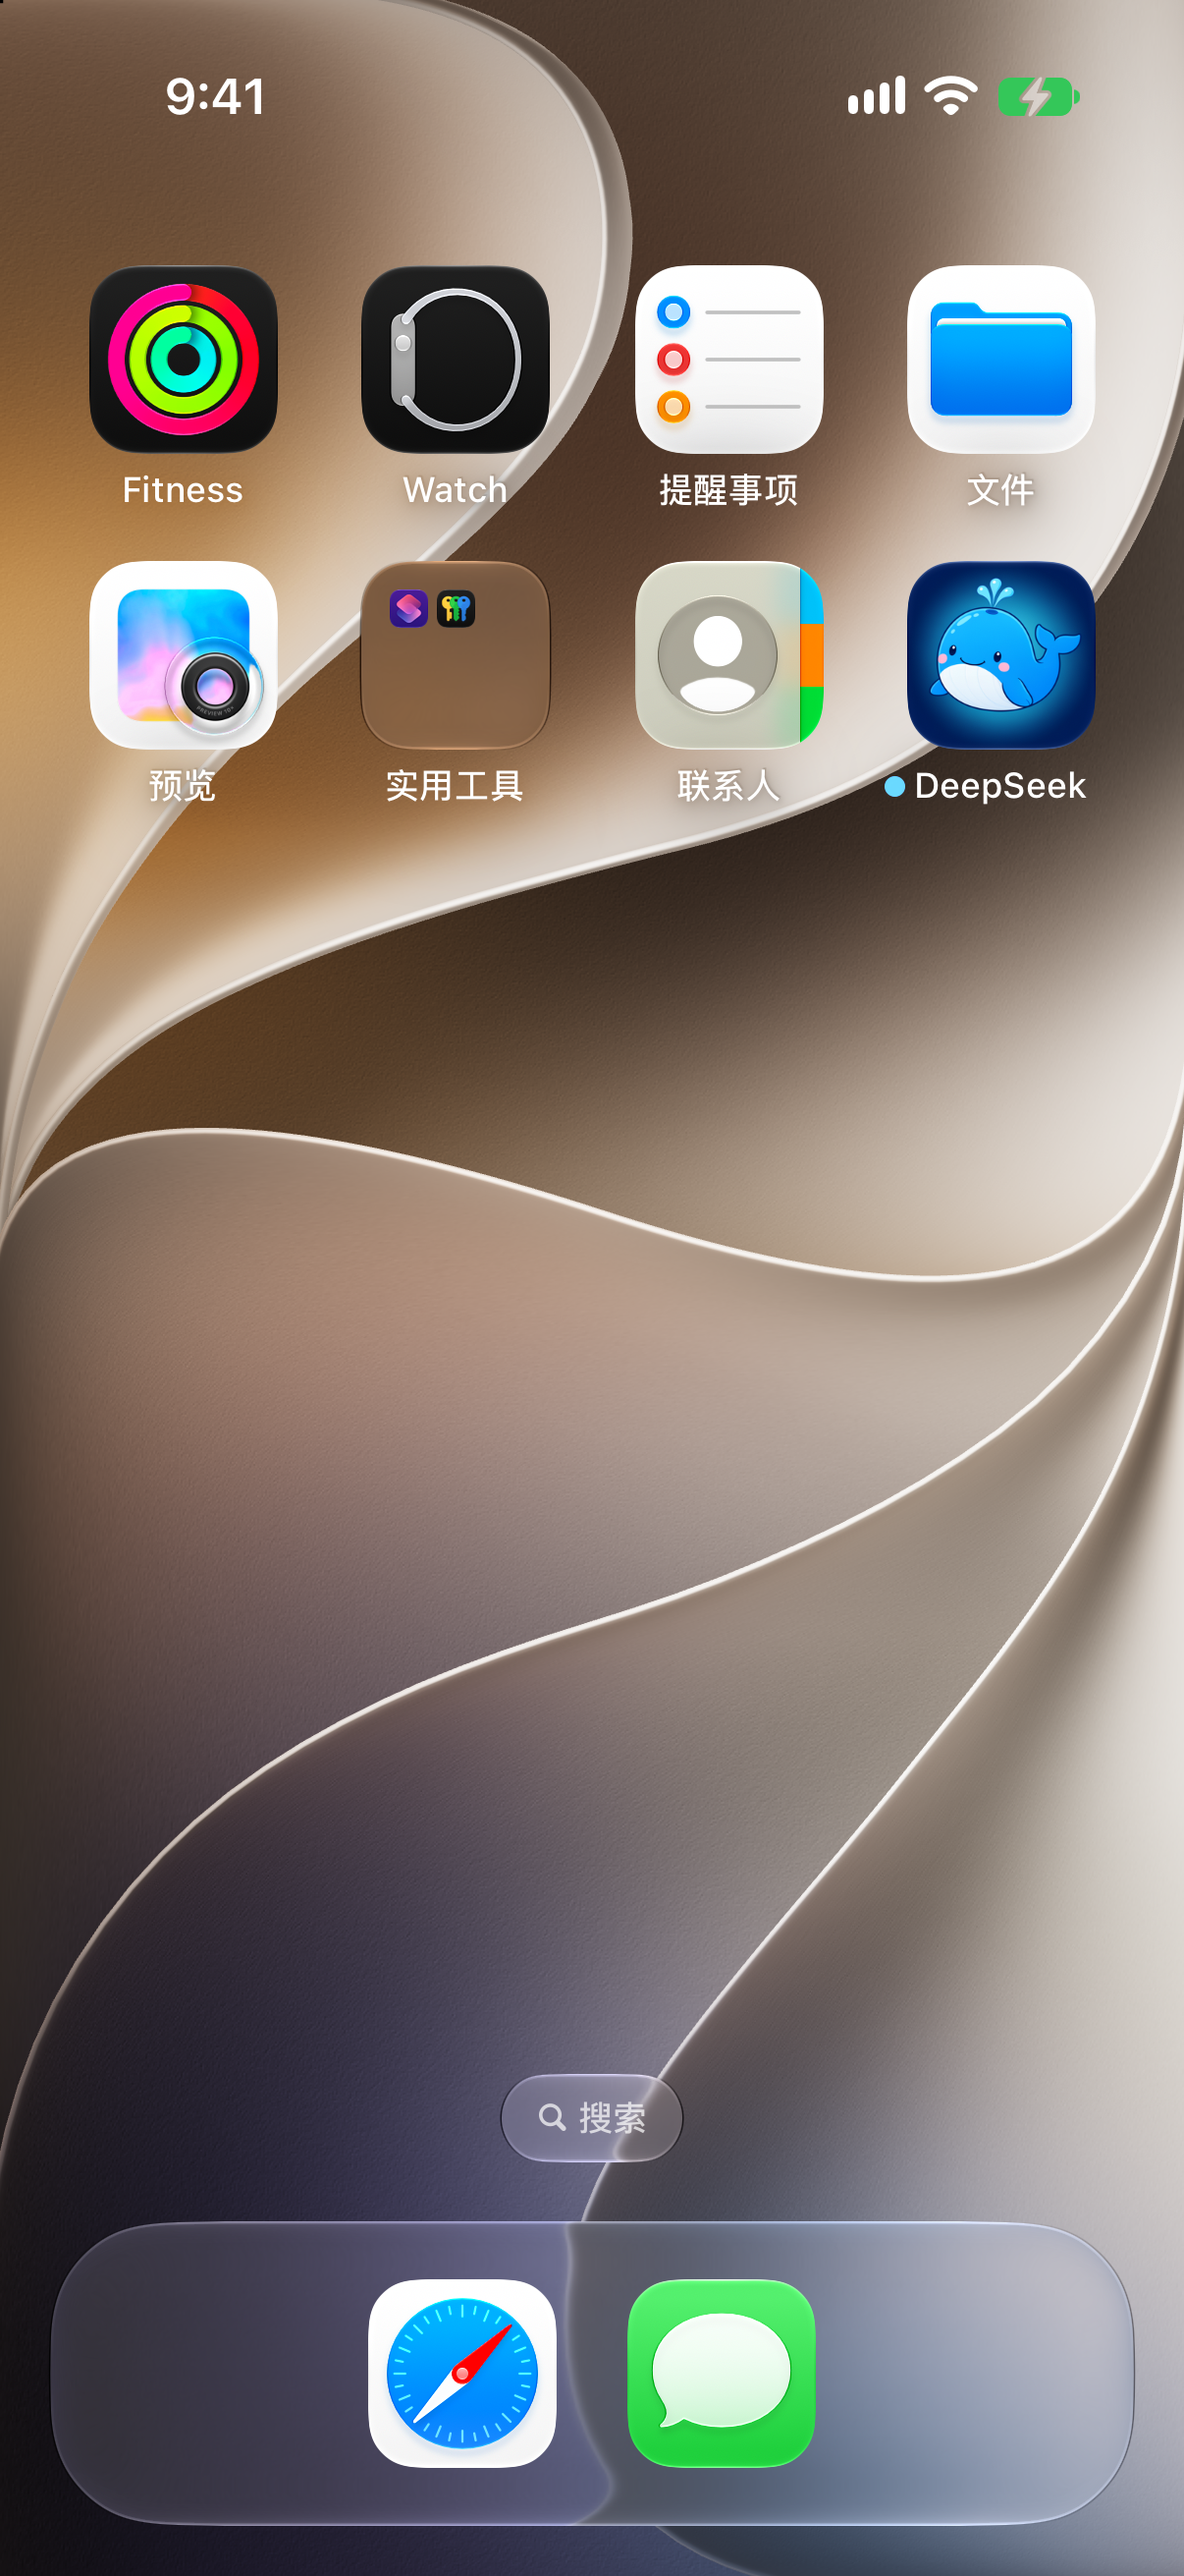
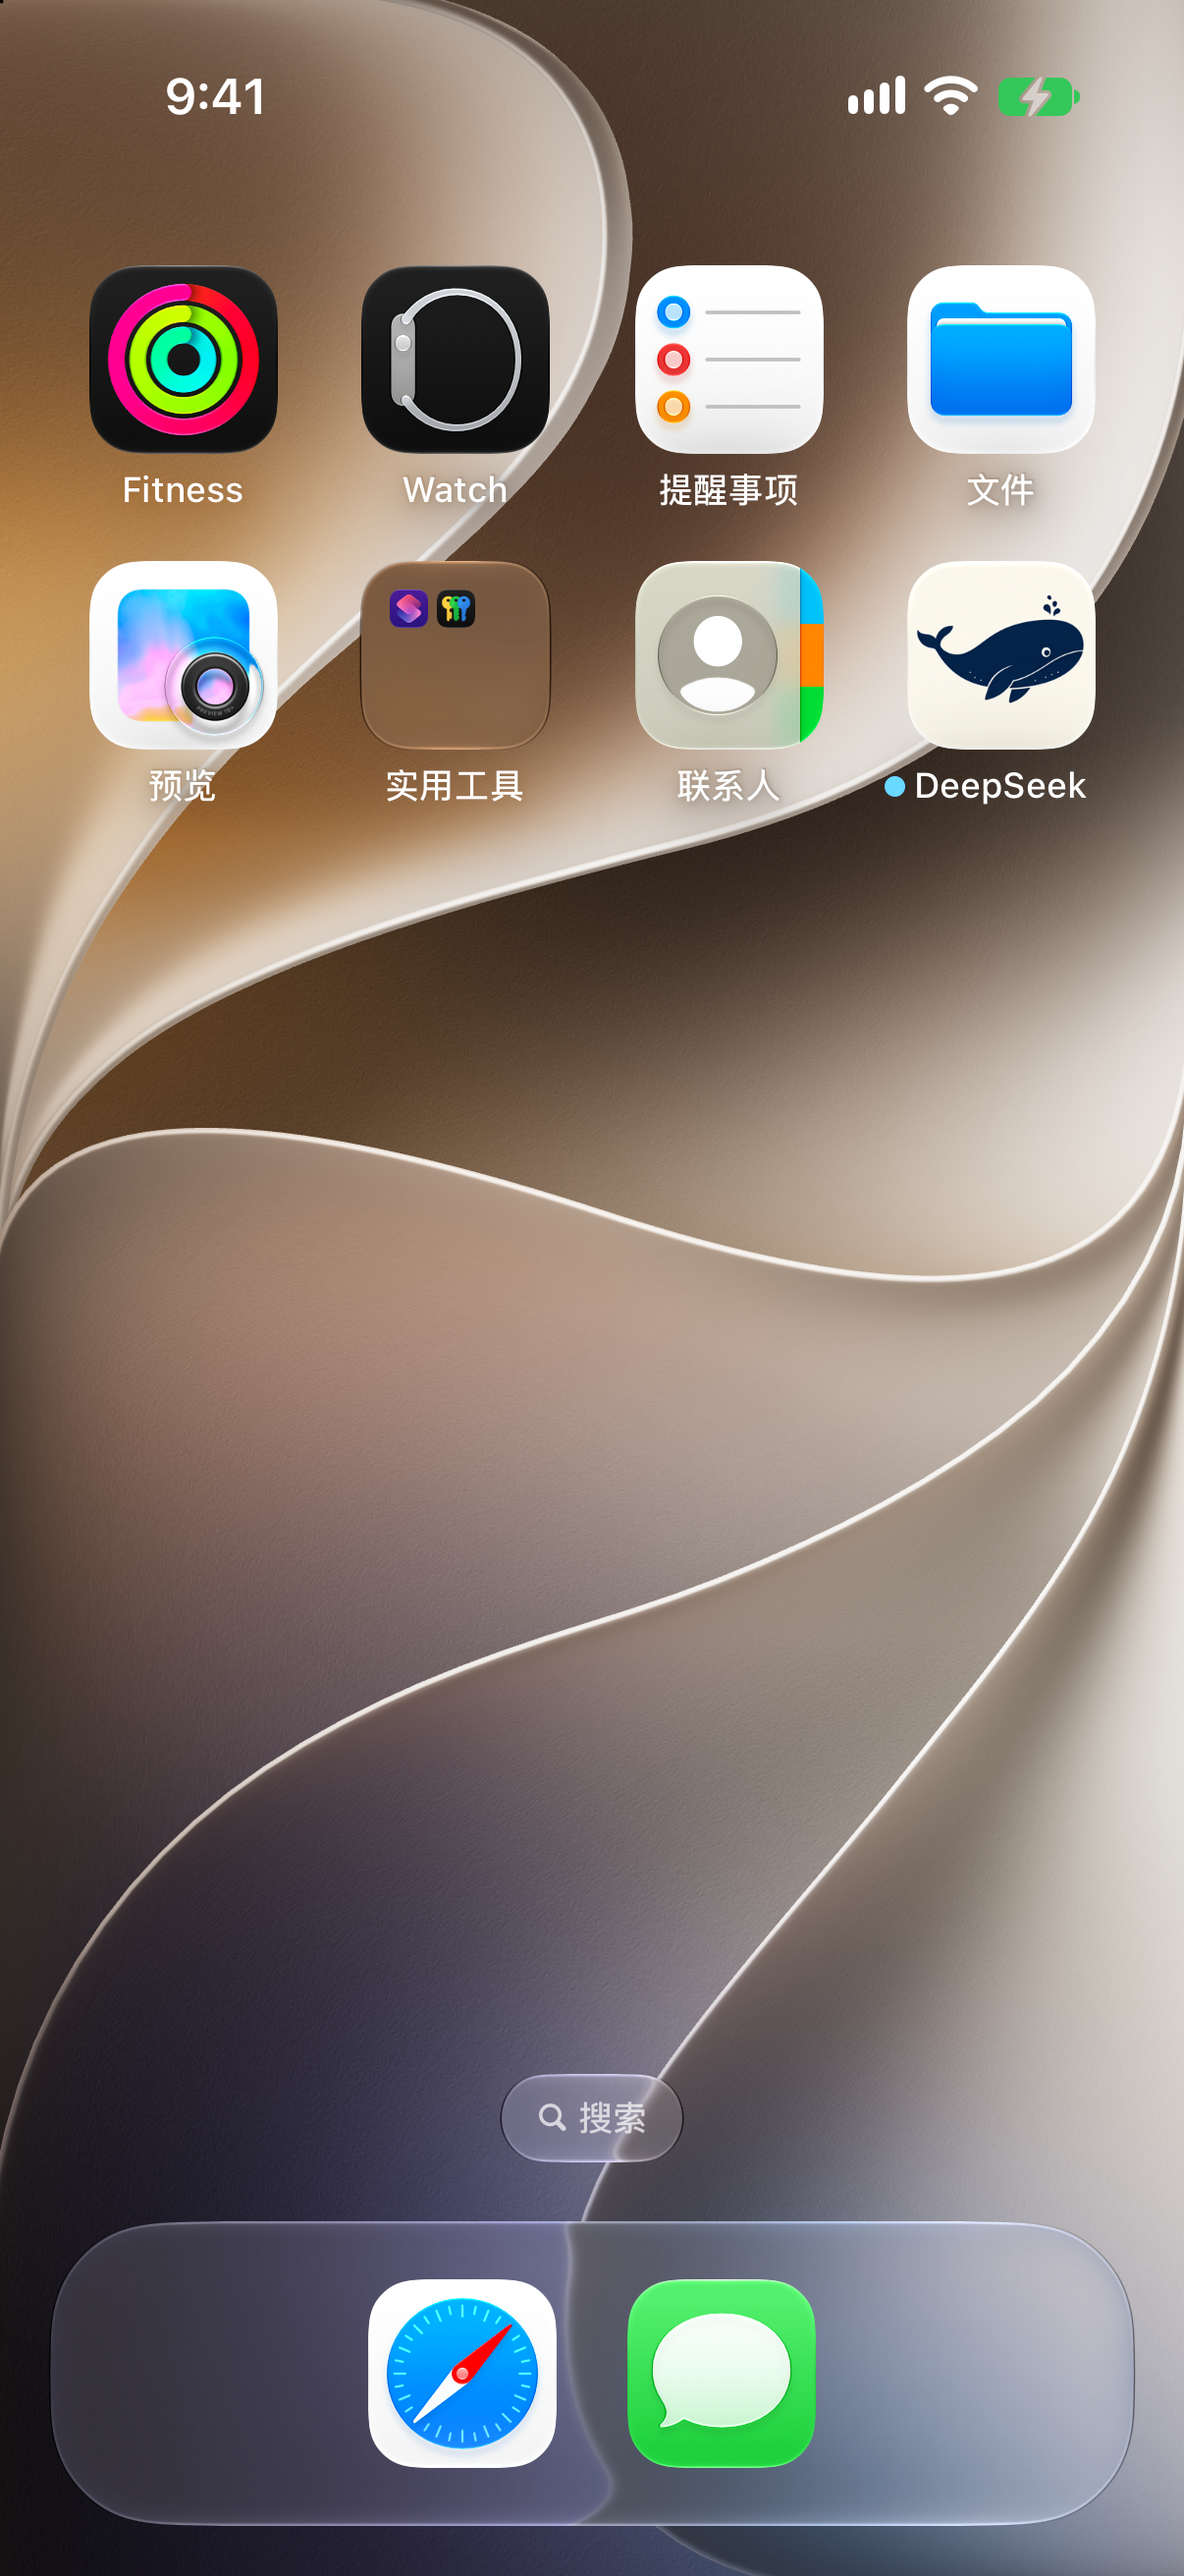
feat: 图标换成米白底深墨剪影蓝鲸
- 按用户给的剪影插画参考重做：单色剪影、负空间眼睛与鳍线、三滴水花
- 本地 moss-image-sft-8bit 出 4 版，定稿为鳍全连体、身体流线的版本
- 重新构建并双端主屏 60pt 验证，验收图更新

Changed region(s): [[0.767, 0.2162, 0.9511, 0.3089]]

diff --git a/docs/DESIGN.md b/docs/DESIGN.md
@@ -105,4 +105,4 @@
 
 ## 图标
 
-深蓝径向渐变底上的卡通蓝鲸（原创，不是官方 logo）。资源是单尺寸 1024 的 `AppIcon-1024.png`，放在 `Sources/Assets.xcassets/AppIcon.appiconset`，工程里 `ASSETCATALOG_COMPILER_APPICON_NAME = AppIcon`。鲸鱼主体占画布约六成，深蓝底保证在浅色壁纸上也有轮廓；不要给图标加文字或描边。
+米白底 `#F4EEE4` 上的深墨剪影蓝鲸（原创，不是官方 logo）：单色剪影、负空间眼睛与鳍线、背上方三滴水花。资源是单尺寸 1024 的 `AppIcon-1024.png`，放在 `Sources/Assets.xcassets/AppIcon.appiconset`，工程里 `ASSETCATALOG_COMPILER_APPICON_NAME = AppIcon`。鲸鱼主体占画布约七成，四周留白要够；不要给图标加文字、渐变或描边。
